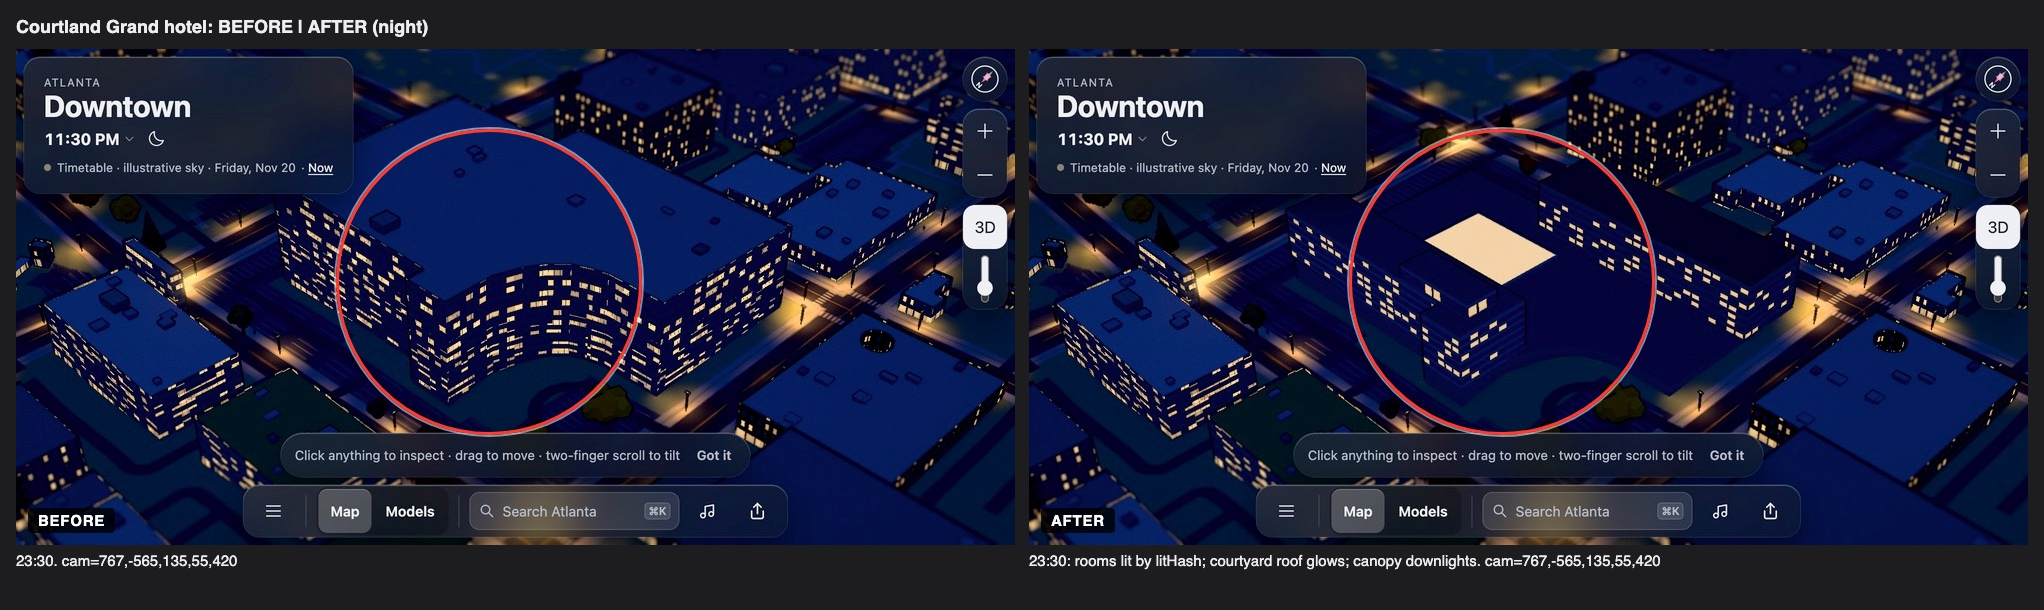
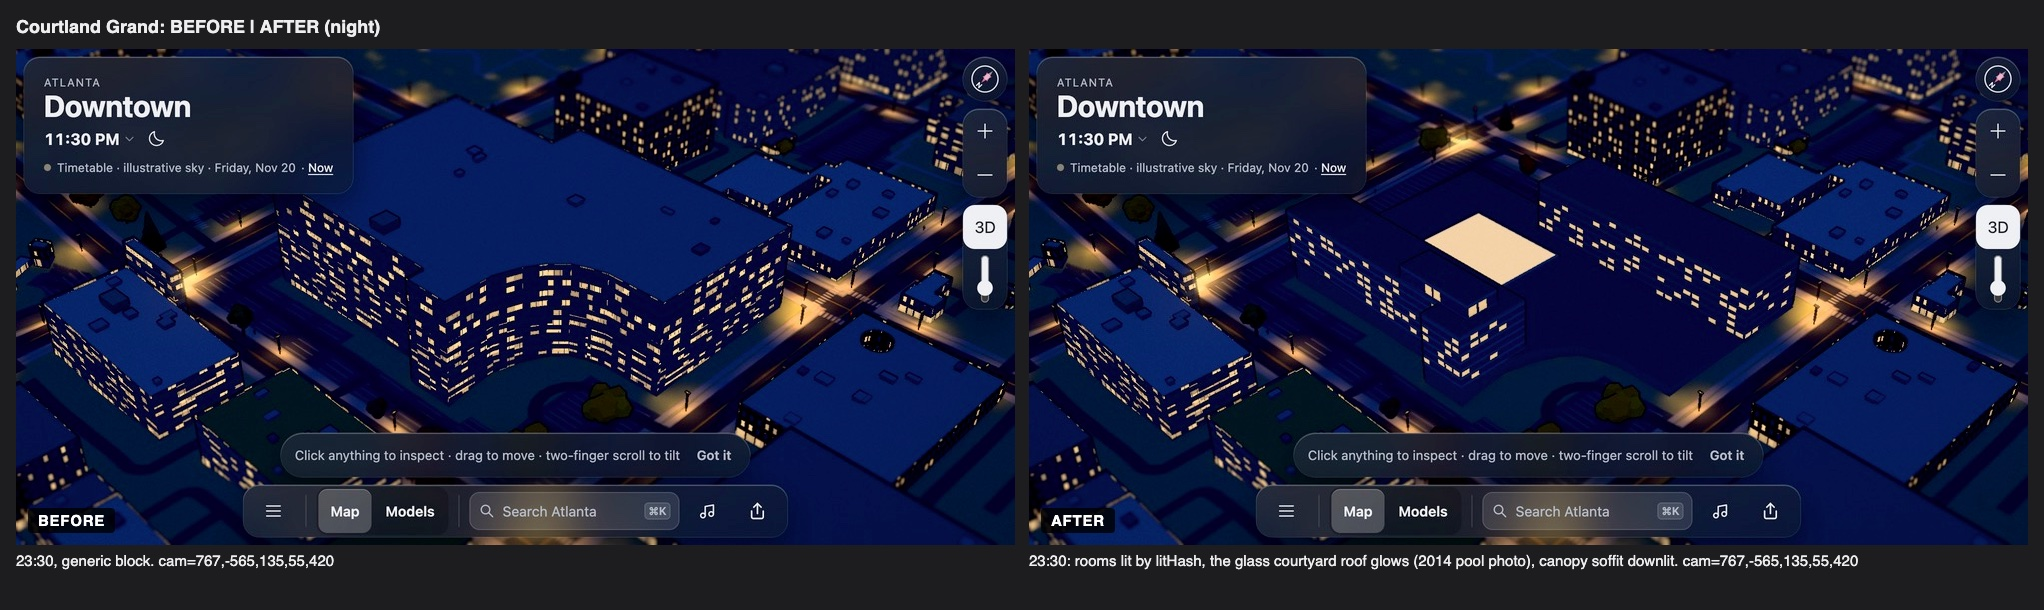
Lift the Courtland Grand's pool-roof and canopy lamps 6 cm off their surfaces (no coplanar layer under 3 cm)

diff --git a/web/src/city/courtland-grand.ts b/web/src/city/courtland-grand.ts
@@ -87,11 +87,11 @@ export function createCourtlandGrand(buildings: VBuilding[], grid: GroundGrid) {
 
   // The glass-roofed courtyard pool in the podium.
   s.prism([[3, -12], [43, -12], [43, 18], [3, 18]], PODIUM, PODIUM + 1.6, SKY, SKY);
-  lights.quad([4, PODIUM + 1.62, -11], [42, PODIUM + 1.62, -11], [42, PODIUM + 1.62, 17], [4, PODIUM + 1.62, 17], '#cfe0dc');
+  lights.quad([4, PODIUM + 1.66, -11], [42, PODIUM + 1.66, -11], [42, PODIUM + 1.66, 17], [4, PODIUM + 1.66, 17], '#cfe0dc');
 
   // The 2025 box canopy at the arrival court, on its column, with downlit soffit.
   s.prism([[-29, -23], [-24, -23], [-24, -17], [-29, -17]], g + 5, g + 6.4, '#2f3134', '#3a3c3f'); // inner end inside the curved wall
   s.prism([[-28.4, -21.3], [-27.8, -21.3], [-27.8, -20.7], [-28.4, -20.7]], g, g + 5, '#d9d9d4', '#d9d9d4');
-  lights.quad([-29, g + 4.98, -23], [-24, g + 4.98, -23], [-24, g + 4.98, -17], [-29, g + 4.98, -17], '#fff1d6');
+  lights.quad([-29, g + 4.94, -23], [-24, g + 4.94, -23], [-24, g + 4.94, -17], [-29, g + 4.94, -17], '#fff1d6');
   return s.finish('#ffe0b0', .7);
 }
